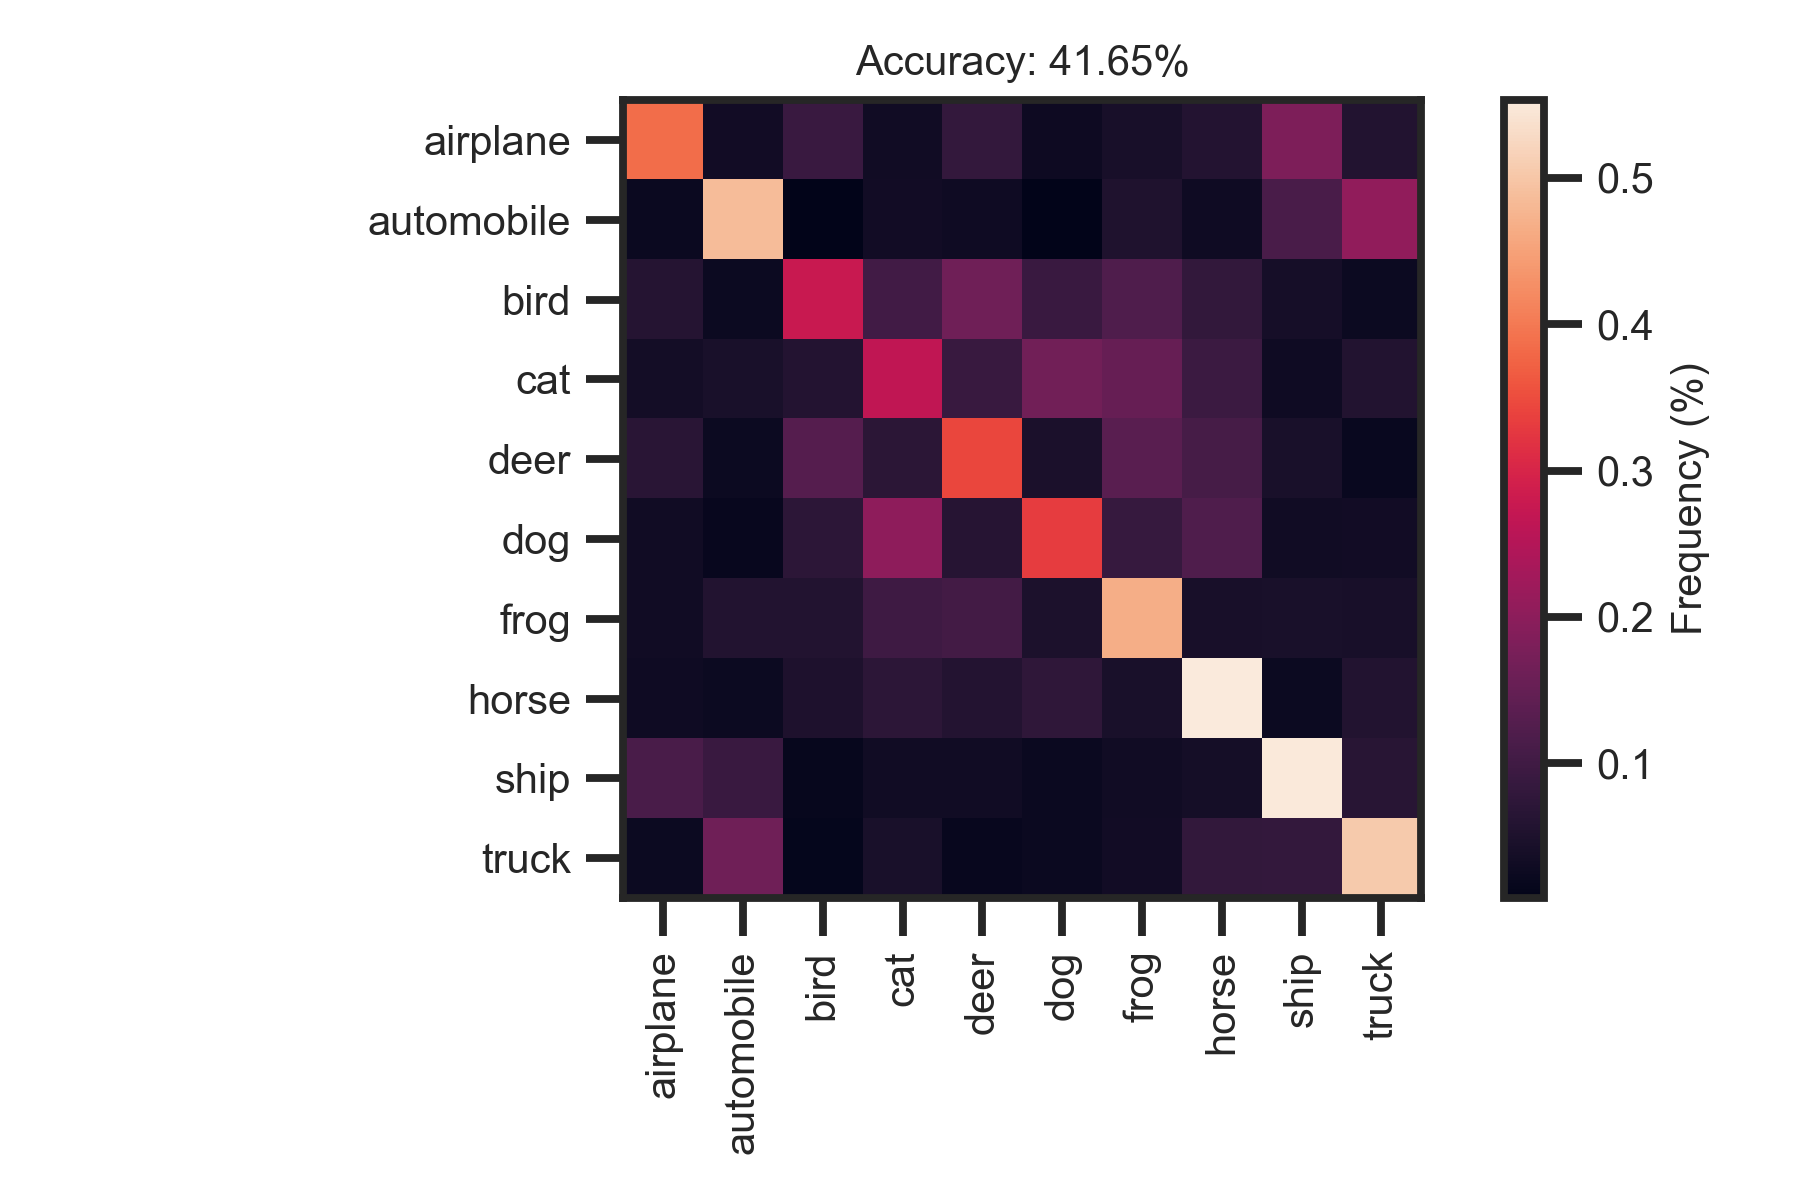
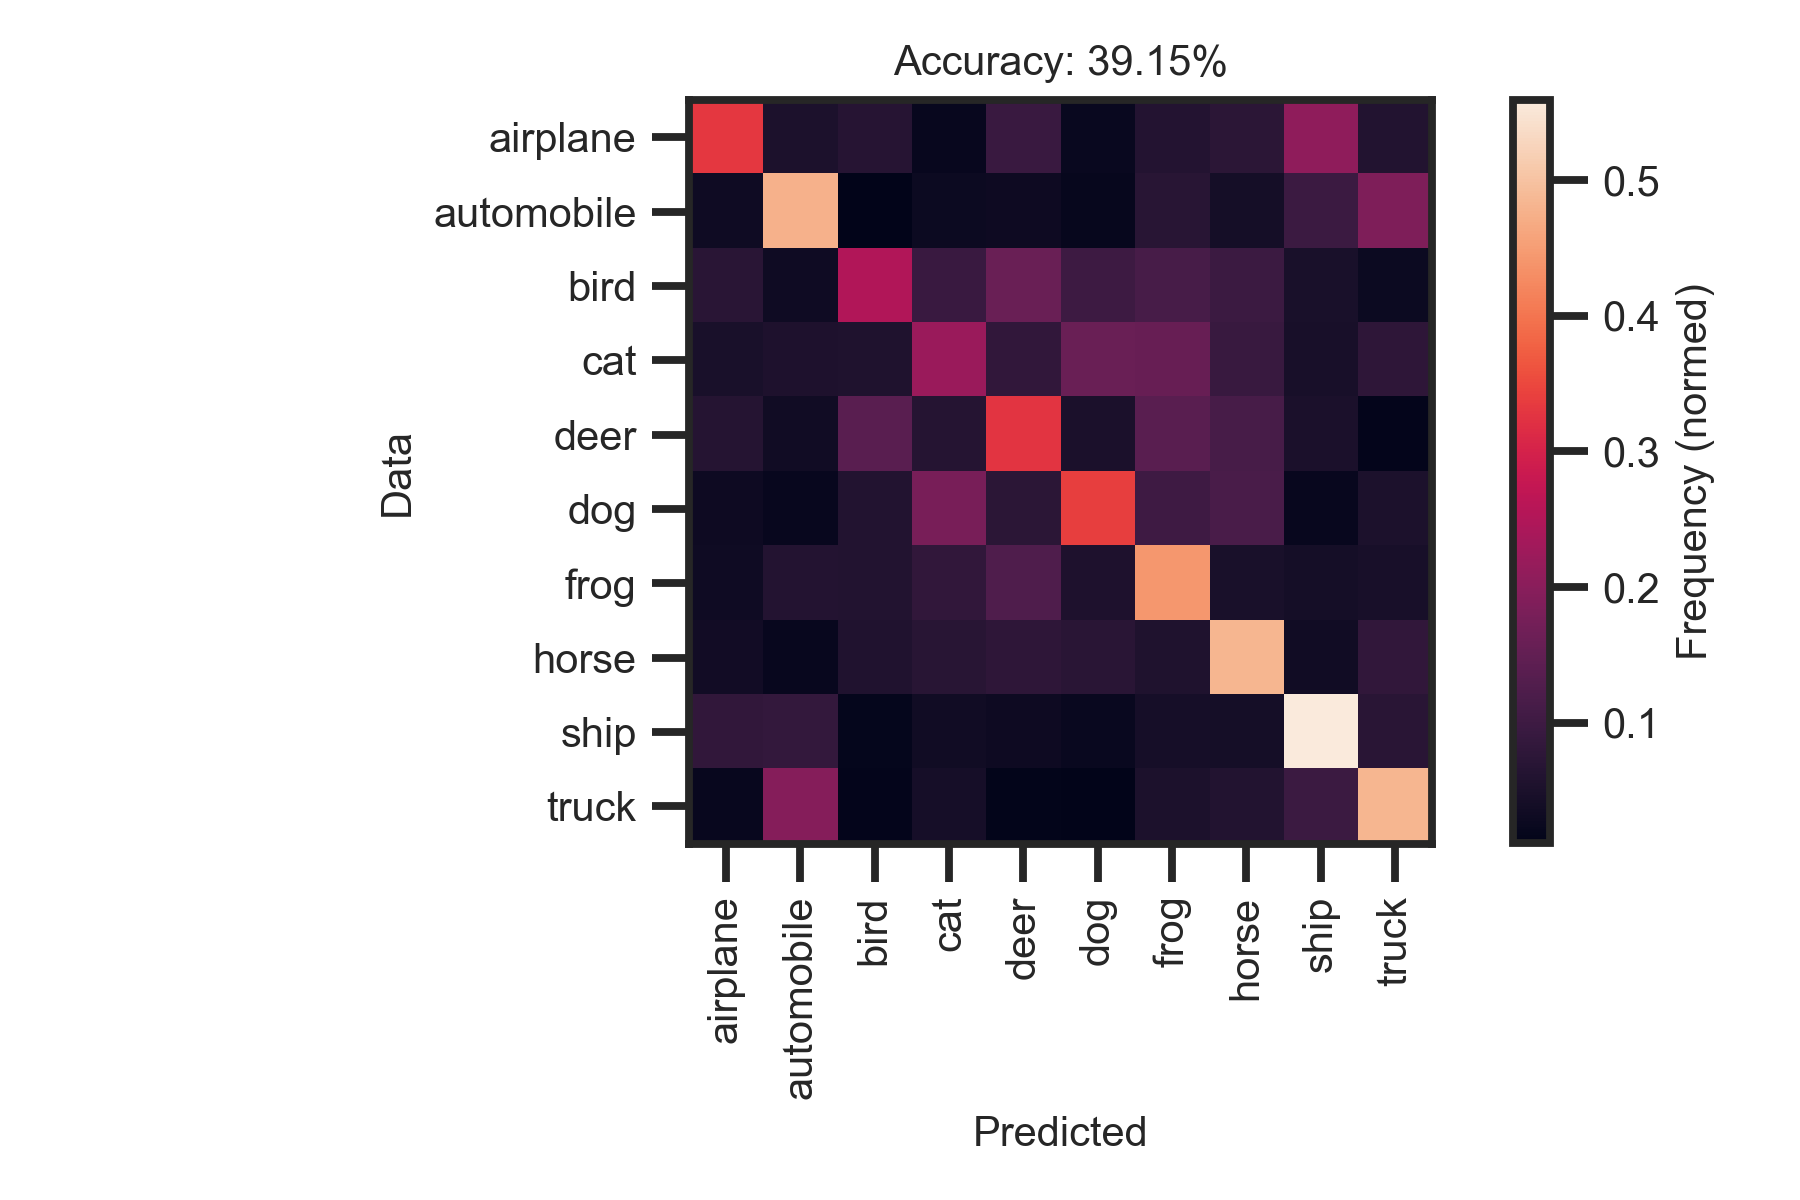
minor edits

diff --git a/helpers/plotting.py b/helpers/plotting.py
@@ -526,8 +526,10 @@ def plot_confusion_matrix(y_true, y_pred, y_labels=None):
     ax.set_xticks(np.arange(10)); ax.set_xticklabels(y_labels, rotation=90, fontsize=10);
     ax.set_yticks(np.arange(10)); ax.set_yticklabels(y_labels, fontsize=10);
     ax.set_title('Accuracy: {:.2f}%'.format(np.mean(y_pred==y_true.ravel()) * 100), fontsize=10)
+    ax.set_xlabel('Predicted', fontsize=10)
+    ax.set_ylabel('Data', fontsize=10)
     cbar = fig.colorbar(cm)
-    cbar.set_label('Frequency (%)', fontsize=10)
+    cbar.set_label('Frequency (normed)', fontsize=10)
     cbar.ax.tick_params(labelsize=10)
     fig.tight_layout()
     return fig, ax
